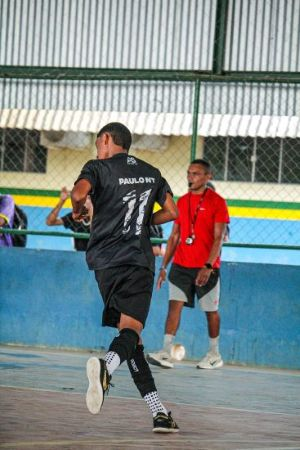
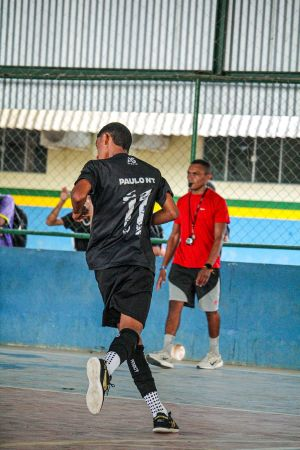
Initial website upload

diff --git a/gallery.html b/gallery.html
@@ -36,16 +36,23 @@
         </div>
     </nav>
 </header>
- <main class="container my-5">
-    <div class="image-row">
-        <div class="col-md-8">
-    <h2>TRAINING</h2>
-    <img src="download (2).jpg" alt="training photos">
-     <img src="download (3).jpg" alt="training photos">
-    <h3> COMPETITIONS</h3>
-    <img src="download (4).jpg" alt="competition photos"> 
-    <img src="download (5).jpg" alt="competition photos">
-    <h4>OUR COURTS</h4>
-    <img src="pvc floor.jpg" alt="our courts">
-    <img src="radhit.jpg" alt="our courts">
-    <img src="GALLERY – Distributor Rubber Flooring dan rumput sintetis.jpg" alt="our courts">
+ 
+    <div class="gallery"> 
+    
+    <p>TRAINING</p>
+
+    <img src="download (2).jpg" alt="training photos" class="img-fluid custom-img">
+    <img src="download (3).jpg" alt="training photos" class="img-fluid custom-img">
+    <p>COMPETITIONS</p>
+    <img src="download (4).jpg" alt="competition photos" class="img-fluid custom-img">
+    <img src="download (5).jpg" alt="competition photos" class="img-fluid custom-img">
+    <p>OUR COURTS</p>
+    <img src="pvc floor.jpg" alt="Court photos" class="img-fluid custom-img">
+    <img src="GALLERY – Distributor Rubber Flooring dan rumput sintetis.jpg" alt="Court photos" class="img-fluid custom-img" >
+
+        <!-- Bootstrap JS and dependencies -->
+<script src="https://cdn.jsdelivr.net/npm/@popperjs/core@2.11.6/dist/umd/popper.min.js"></script>
+<script src="https://cdn.jsdelivr.net/npm/bootstrap@5.3.0/dist/js/bootstrap.min.js"></script>
+
+
+    </div>

diff --git a/styles.css b/styles.css
@@ -36,6 +36,7 @@ main {
 
 main img {
     max-width: 100%;
+    min-width: 45%;
     height: auto;
     display: block;
     margin: 20px 0;
